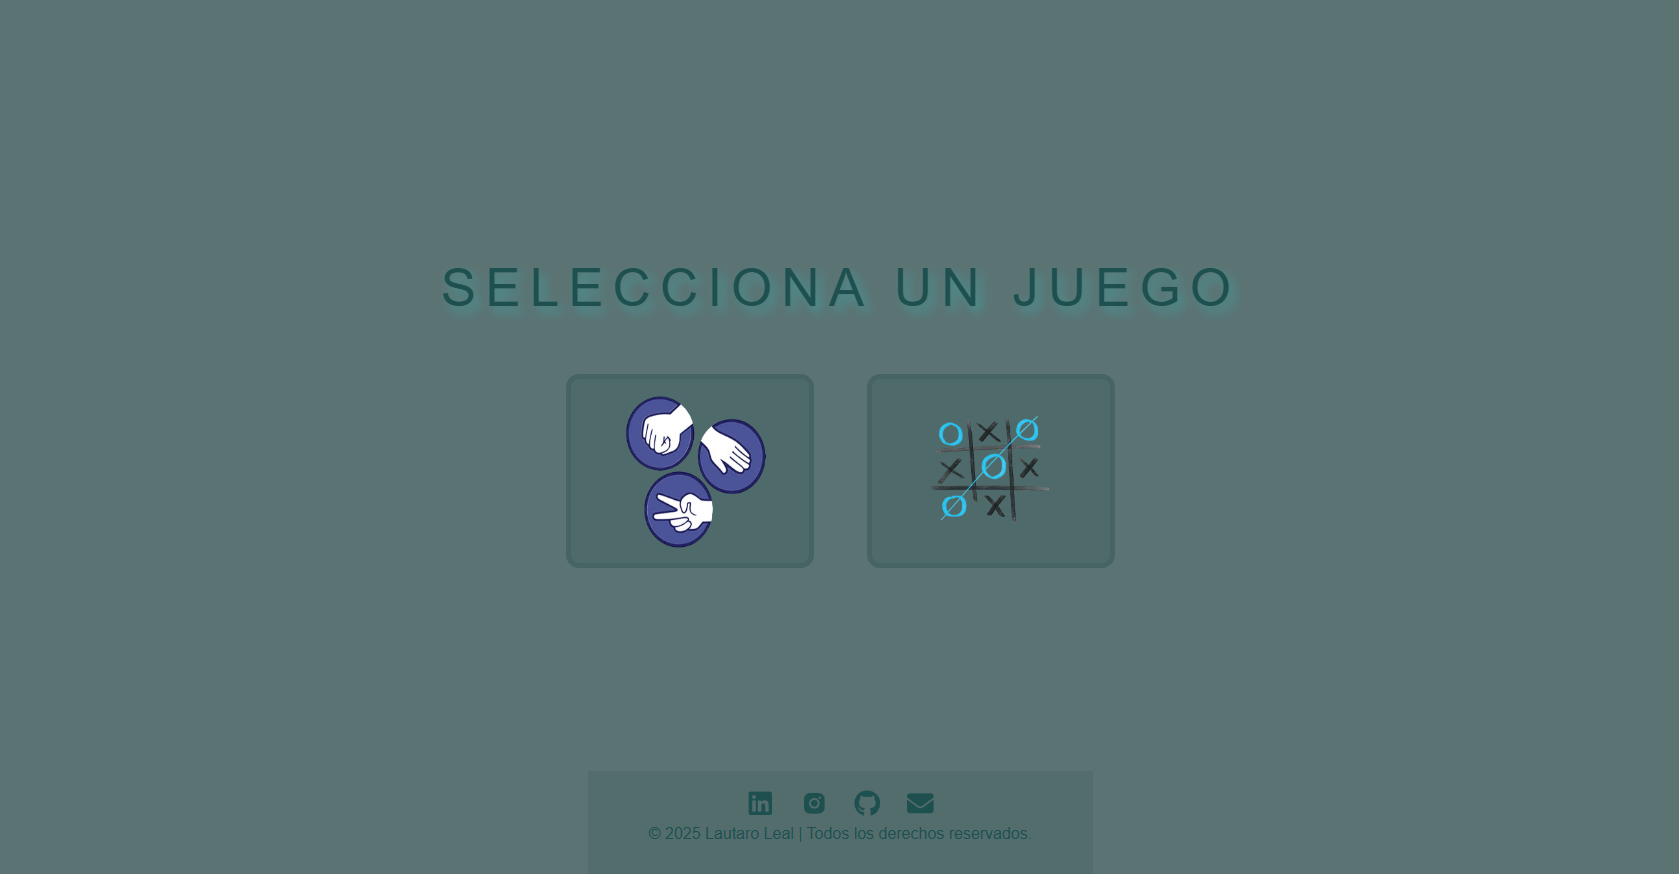
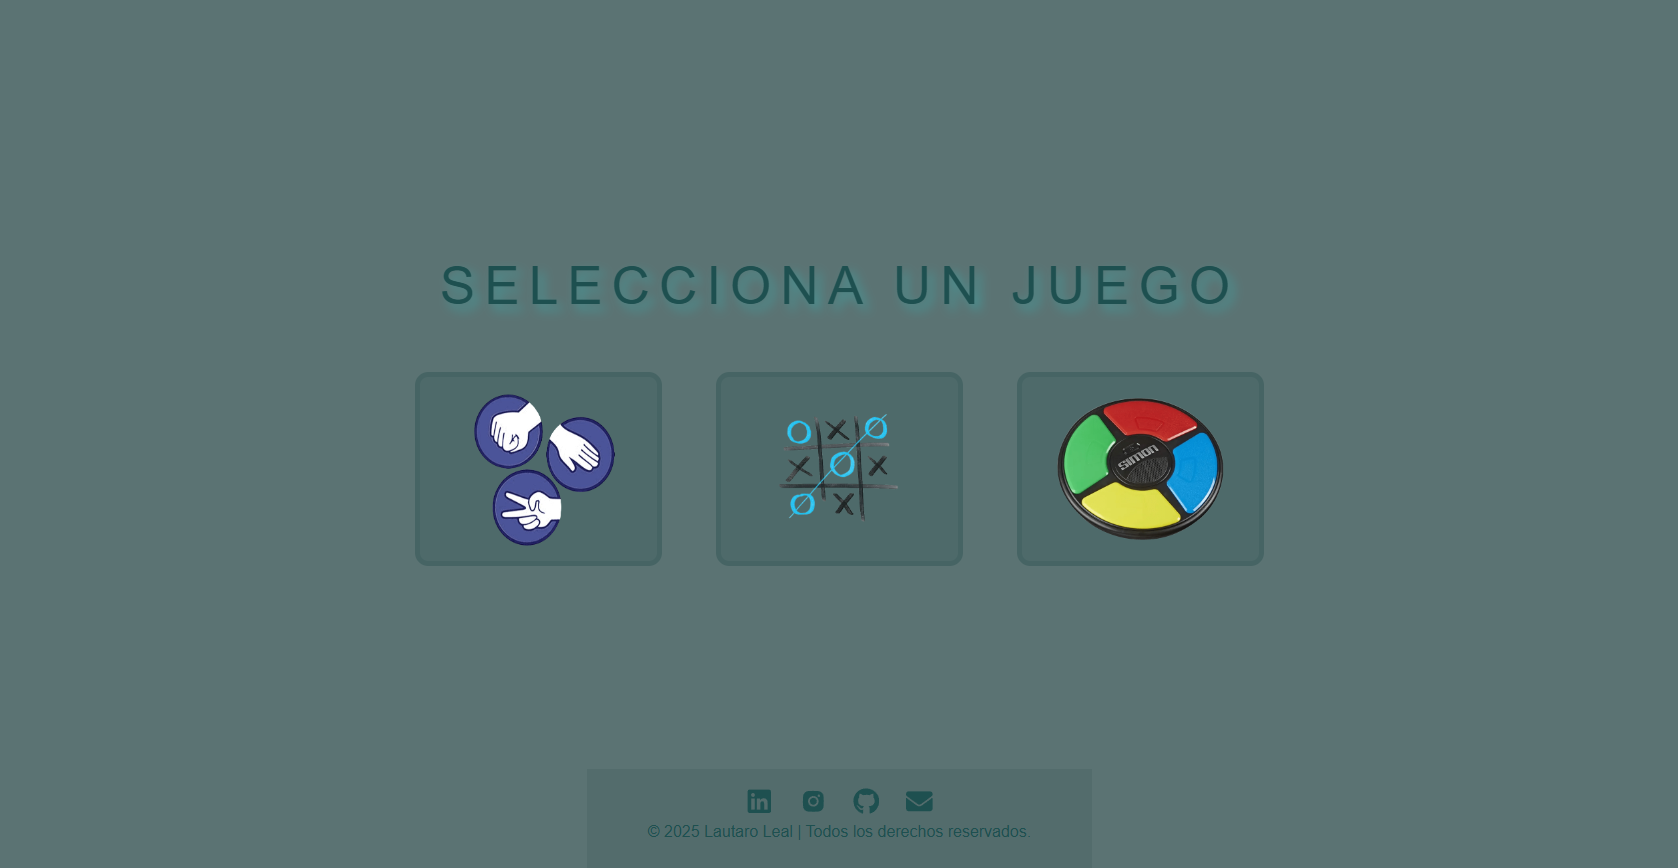
Actualizando Proyecto de Games (Projects.jsx)

Changed region(s): [[0.2789, 0.4355, 0.5268, 0.6221], [0.5578, 0.4355, 0.7437, 0.6221], [0.3719, 0.9021, 0.6198, 0.9643]]

diff --git a/src/components/Projects.jsx b/src/components/Projects.jsx
@@ -51,7 +51,7 @@ const projectList = [
     },
     {
         title: 'Games',
-        description: 'Juegos "TA TE TI" - "Piedra | Papel | Tijera"',
+        description: 'Juegos Web',
         techs: ['HTML', 'CSS', 'JavaScript', 'React', 'Bootstrap', 'Responsive'],
         code: 'https://github.com/LautaroLeall/Games',
         demo: 'https://games-lau.netlify.app/',
